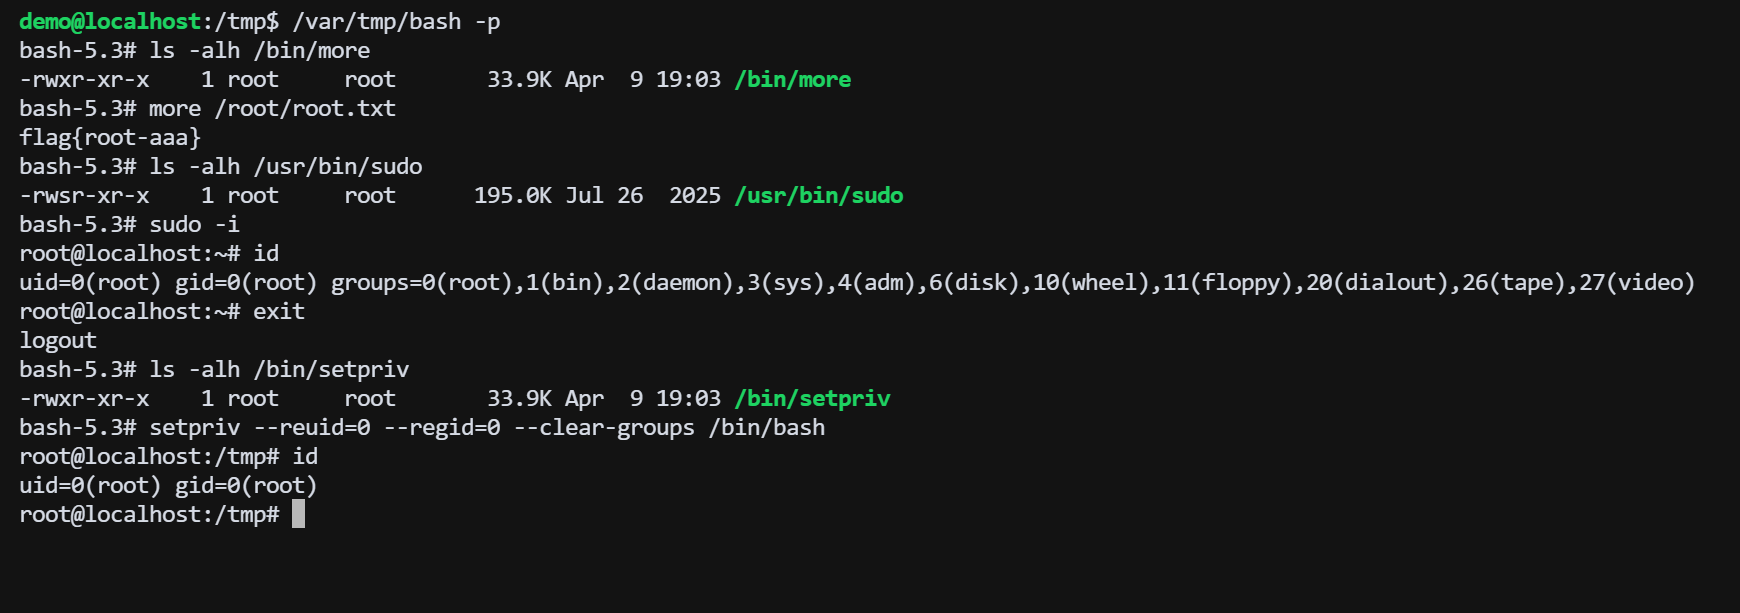
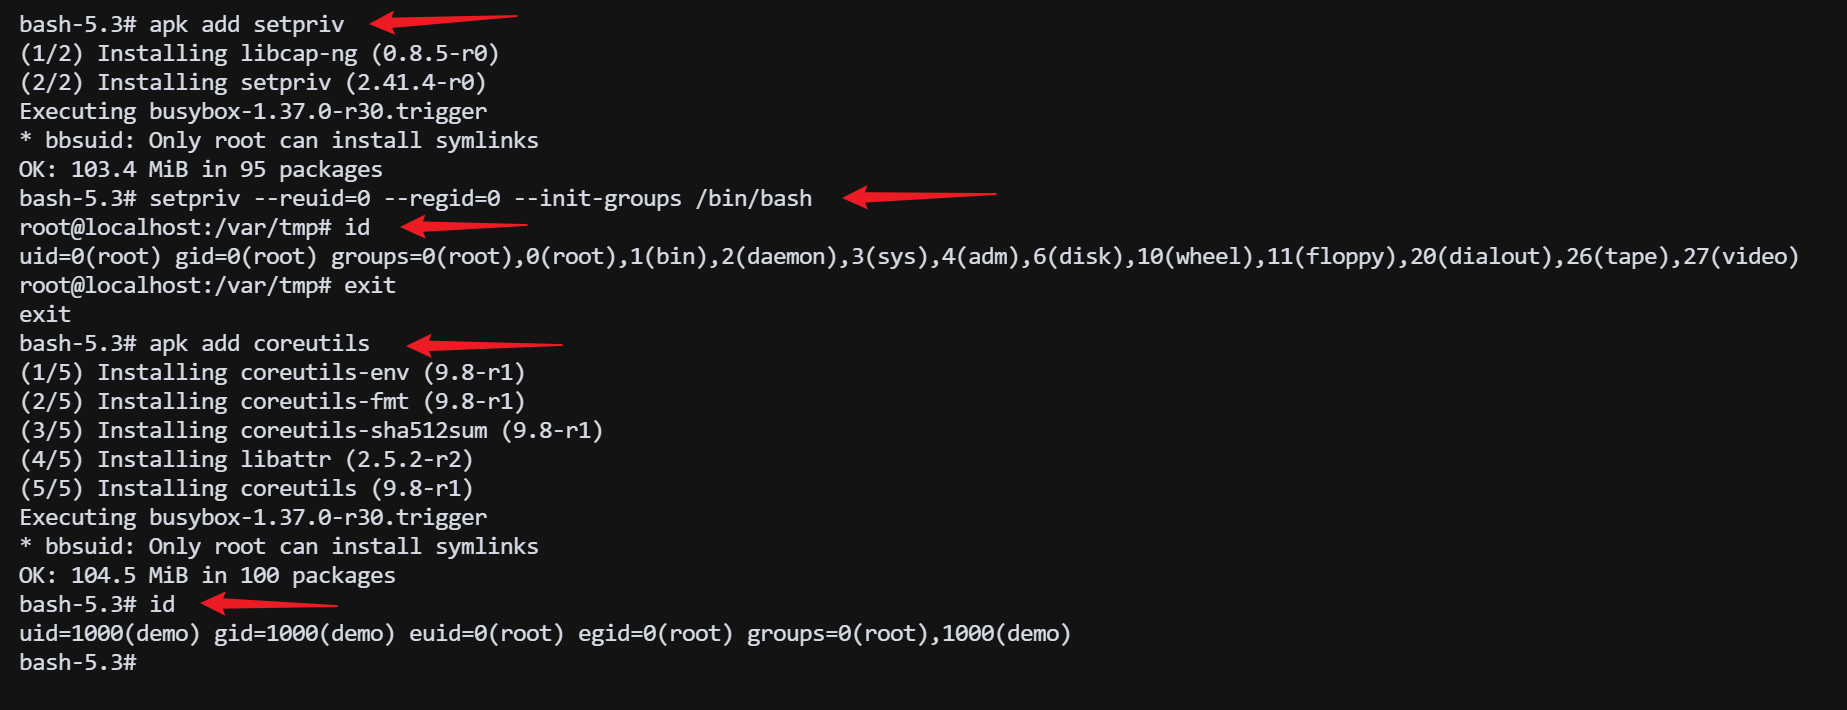
docs:update

Changed region(s): [[0.0, 0.0, 0.9931, 0.9608], [0.2793, 0.093, 0.4966, 0.155]]

diff --git a/posts/13.提权/03.busybox提权失败问题定位.md b/posts/13.提权/03.busybox提权失败问题定位.md
@@ -132,19 +132,6 @@ setuid(0):     当前进程 euid=0，具备 CAP_SETUID。
 
 之后进程中 `ruid == 0`。BusyBox 的 `check_suid()` 看到 `ruid == 0`，直接 `return`，跳过所有检查。因此再次执行 `busybox id` 时，整个进程已是完整 root 身份，输出 `uid=0(root)`。
 
-### *1.4 补充：check_suid() 的三种模式
-
-`check_suid()` 入口判断是 `if (ruid == 0) return;`——检查的是 **real uid**，而非 effective uid。这意味着即使 euid=0，只要 ruid≠0，检查继续执行。ruid≠0 时，根据每个 applet 编译期声明的模式处理：
-
-| 模式 | 条件 | 行为 | suid 后果 |
-|------|------|------|-----------|
-| **BB_SUID_DROP** | 无条件 | `setgid(rgid)` + `setuid(ruid)` | 三个 UID 全部设为 ruid，永久失权 |
-| **BB_SUID_REQUIRE** | euid==0 放行；否则报错退出 | 不干预，保持原样 | ruid=1000, euid=0, suid=0 |
-| **BB_SUID_MAYBE** | 无条件 | 不干预 | 保持原始 |
-
-绝大多数 applet（`cat`、`ls`、`id`、`ash`、`vi` 等）是 **DROP**，`passwd`、`su`、`login` 等 6 个是 **REQUIRE**，`traceroute`、`ping`、`findfs` 等少数是 **MAYBE**。
-
-
 ## 2. 恢复完整 Root 身份
 
 通过 SUID Bash 获得的 shell 处于 `ruid=1000, euid=0, suid=0`。此时大量 BusyBox applet 会触发 DROP 降权。三种绕过方案：
@@ -202,20 +189,15 @@ gcc --static -o s s.c
 
 ### 2.3 方案三：非 BusyBox 独立工具
 
-使用不经过 BusyBox applet 入口的程序，避免触发 `check_suid()`：
+使用独立的二进制文件，不经过 BusyBox 的`check_suid()`的降权操作：
 
-查看非busybox链接文件的工具
-
-```bash
-ls -alh /usr/bin | grep -Ev '/bin/busybox'
-```
-
-如果有sudo，比较方便，另外alpine的more默认是busybox的链接文件，如果是`util-linux`包里的GNU more，可以拿来用，setpriv是`setpriv`包里的工具，Alpine 3.20+默认安装了
+在 Alpine Linux 中，apk 是独立的二进制文件，非 BusyBox applet，并且在suid的`bash -p`进程下，鉴权操作似乎只关注`euid=0`，允许执行，这意味着我们可以安装独立的GNU版本工具覆盖 BusyBox 的链接文件。
 
 ```bash
-sudo -i
-more /root/root.txt                    # 读取 root 文件
-setpriv --reuid=0 --regid=0 --clear-groups /bin/bash  # 恢复完整 root
+apk add setpriv
+setpriv --reuid=0 --regid=0 --init-groups /bin/bash
+# 安装 coreutils 获取独立的 id、ls 等工具
+apk add coreutils
 ```
 
 ![](/images/badbox/5.png)
@@ -223,7 +205,21 @@ setpriv --reuid=0 --regid=0 --clear-groups /bin/bash  # 恢复完整 root
 
 ## 3. 附录
 
-### 3.1 Linux 进程 UID
+### 3.1 补充：check_suid() 的三种模式
+
+`check_suid()` 入口判断是 `if (ruid == 0) return;`——检查的是 **real uid**，而非 effective uid。这意味着即使 euid=0，只要 ruid≠0，检查继续执行。ruid≠0 时，根据每个 applet 编译期声明的模式处理：
+
+| 模式 | 条件 | 行为 | suid 后果 |
+|------|------|------|-----------|
+| **BB_SUID_DROP** | 无条件 | `setgid(rgid)` + `setuid(ruid)` | 三个 UID 全部设为 ruid，永久失权 |
+| **BB_SUID_REQUIRE** | euid==0 放行；否则报错退出 | 不干预，保持原样 | ruid=1000, euid=0, suid=0 |
+| **BB_SUID_MAYBE** | 无条件 | 不干预 | 保持原始 |
+
+绝大多数 applet（`cat`、`ls`、`id`、`ash`、`vi` 等）是 **DROP**，`passwd`、`su`、`login` 等 6 个是 **REQUIRE**，`traceroute`、`ping`、`findfs` 等少数是 **MAYBE**。
+
+
+
+### 3.2 Linux 进程 UID
 
 每个 Linux 进程维护以下 UID 属性：
 
@@ -243,7 +239,7 @@ suid = 0 (root)
 
 即 **euid 和 suid 都被设为文件属主的值**，ruid 保持为原用户。这正是实验中 `./bash -p` 之后的状态。
 
-### 3.2 setuid vs seteuid
+### 3.3 setuid vs seteuid
 
 从 `ruid=1000, euid=0, suid=0` 出发：
 
@@ -263,7 +259,7 @@ seteuid(0);      // 失败！suid 已经是 1000，无法恢复
 
 > 这正是 BusyBox `BB_SUID_DROP` 做的事情。`setuid(ruid)` 在特权进程降权时会同时清除 euid 和 suid，防止后续重新提权。`seteuid()` 只改 euid、不改 suid，所以 suid 中保存的 0 允许后续 `seteuid(0)` 恢复。
 
-### 3.3 check_suid() 关键代码
+### 3.4 check_suid() 关键代码
 
 ```c
 // libbb/appletlib.c:555-650（精简）
@@ -288,7 +284,7 @@ static void check_suid(int applet_no)
 }
 ```
 
-### 3.4 sanitize_env_if_suid() — 环境变量清理
+### 3.5 sanitize_env_if_suid() — 环境变量清理
 
 当检测到 `getuid() != geteuid()`（即处于 setuid 场景），BusyBox 会在进入 applet 前清理以下危险环境变量：
 
@@ -297,7 +293,7 @@ static void check_suid(int applet_no)
 并重置 `PATH`。这是 BusyBox 针对 setuid 场景的纵深防御措施，阻止通过环境变量注入实现提权。
 
 
-### 3.5 Applet SUID 默认策略
+### 3.6 Applet SUID 默认策略
 
 每个 applet 在注册时声明一个编译期策略，由 `check_suid()` 统一执行。以下为 BusyBox 1.38.0 默认配置下的代表性分类：
 
@@ -320,7 +316,7 @@ static void check_suid(int applet_no)
 > `BB_SUID_DROP` 的 applet（如 adduser）通过 `geteuid() != 0` 自查，但这发生在 `check_suid()` 已执行 `setuid(ruid)` 之后。所以这些 applet 实际上要求的是**以 root 身份直接运行**（而非通过 setuid 位），因为 setuid 来的特权在进入 main() 之前就被丢弃了。
 
 
-### 3.6 编译配置影响
+### 3.7 编译配置影响
 
 BusyBox 的权限行为由三个编译选项控制：
 
